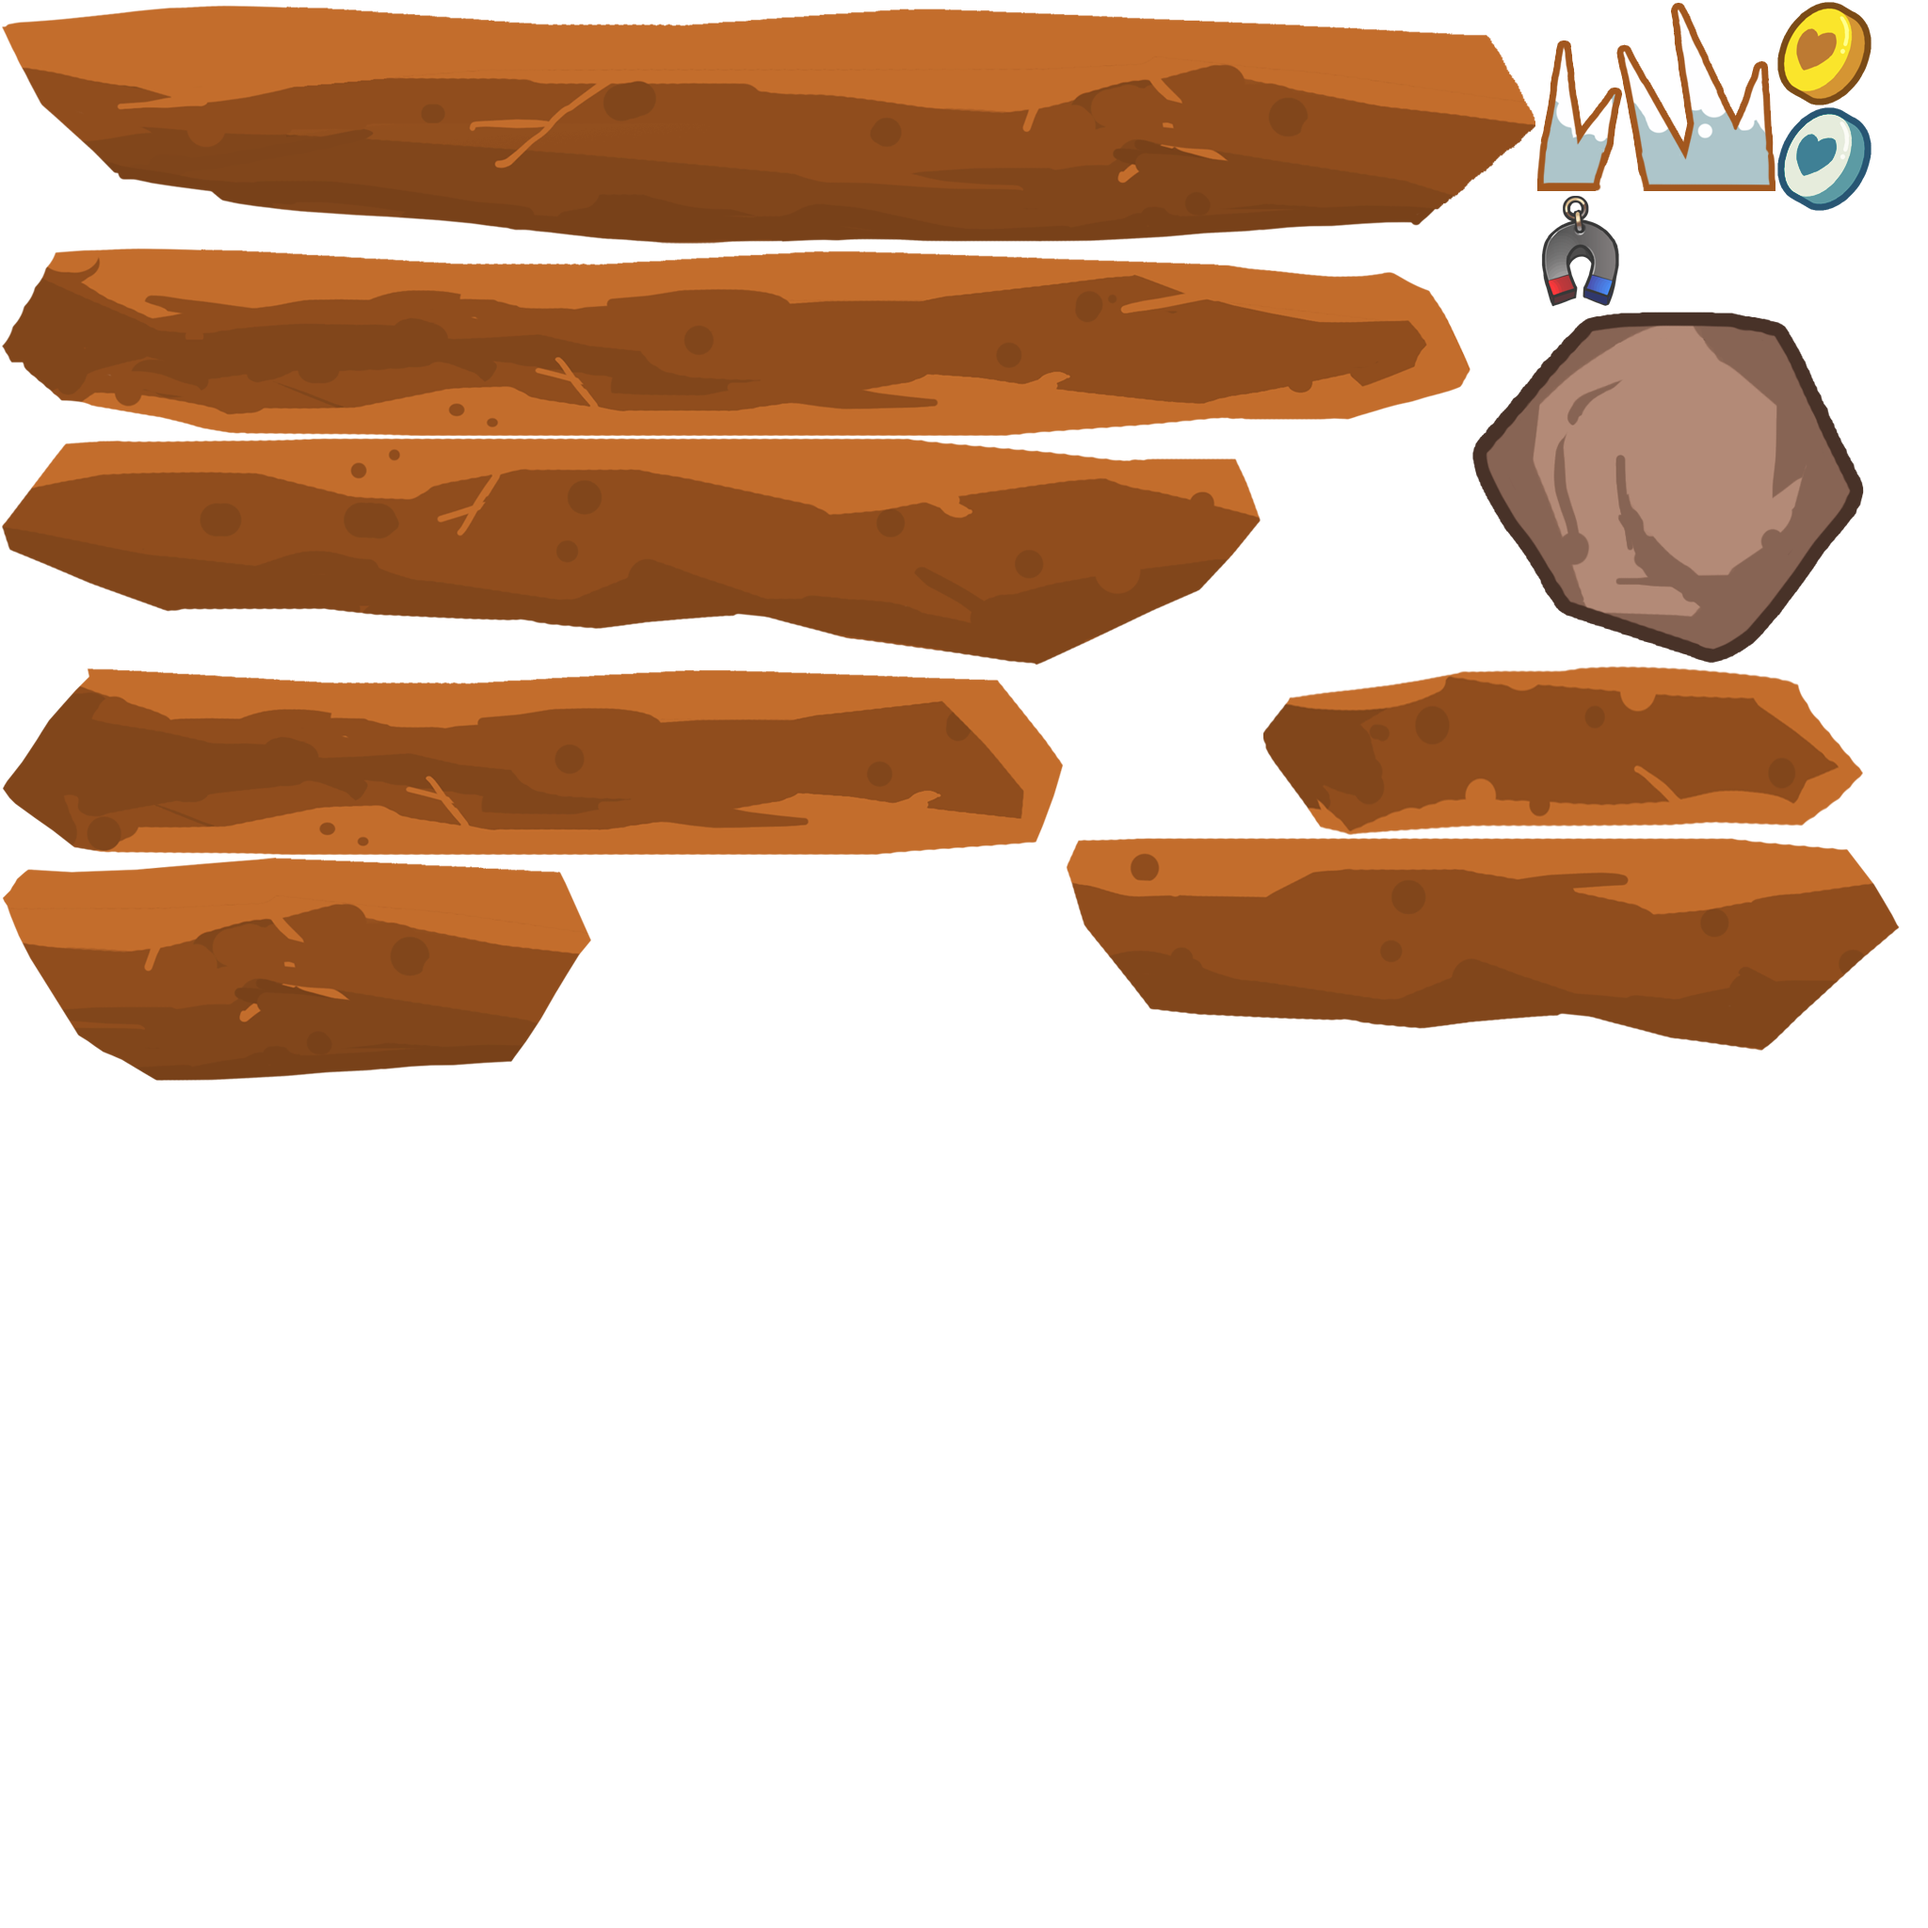
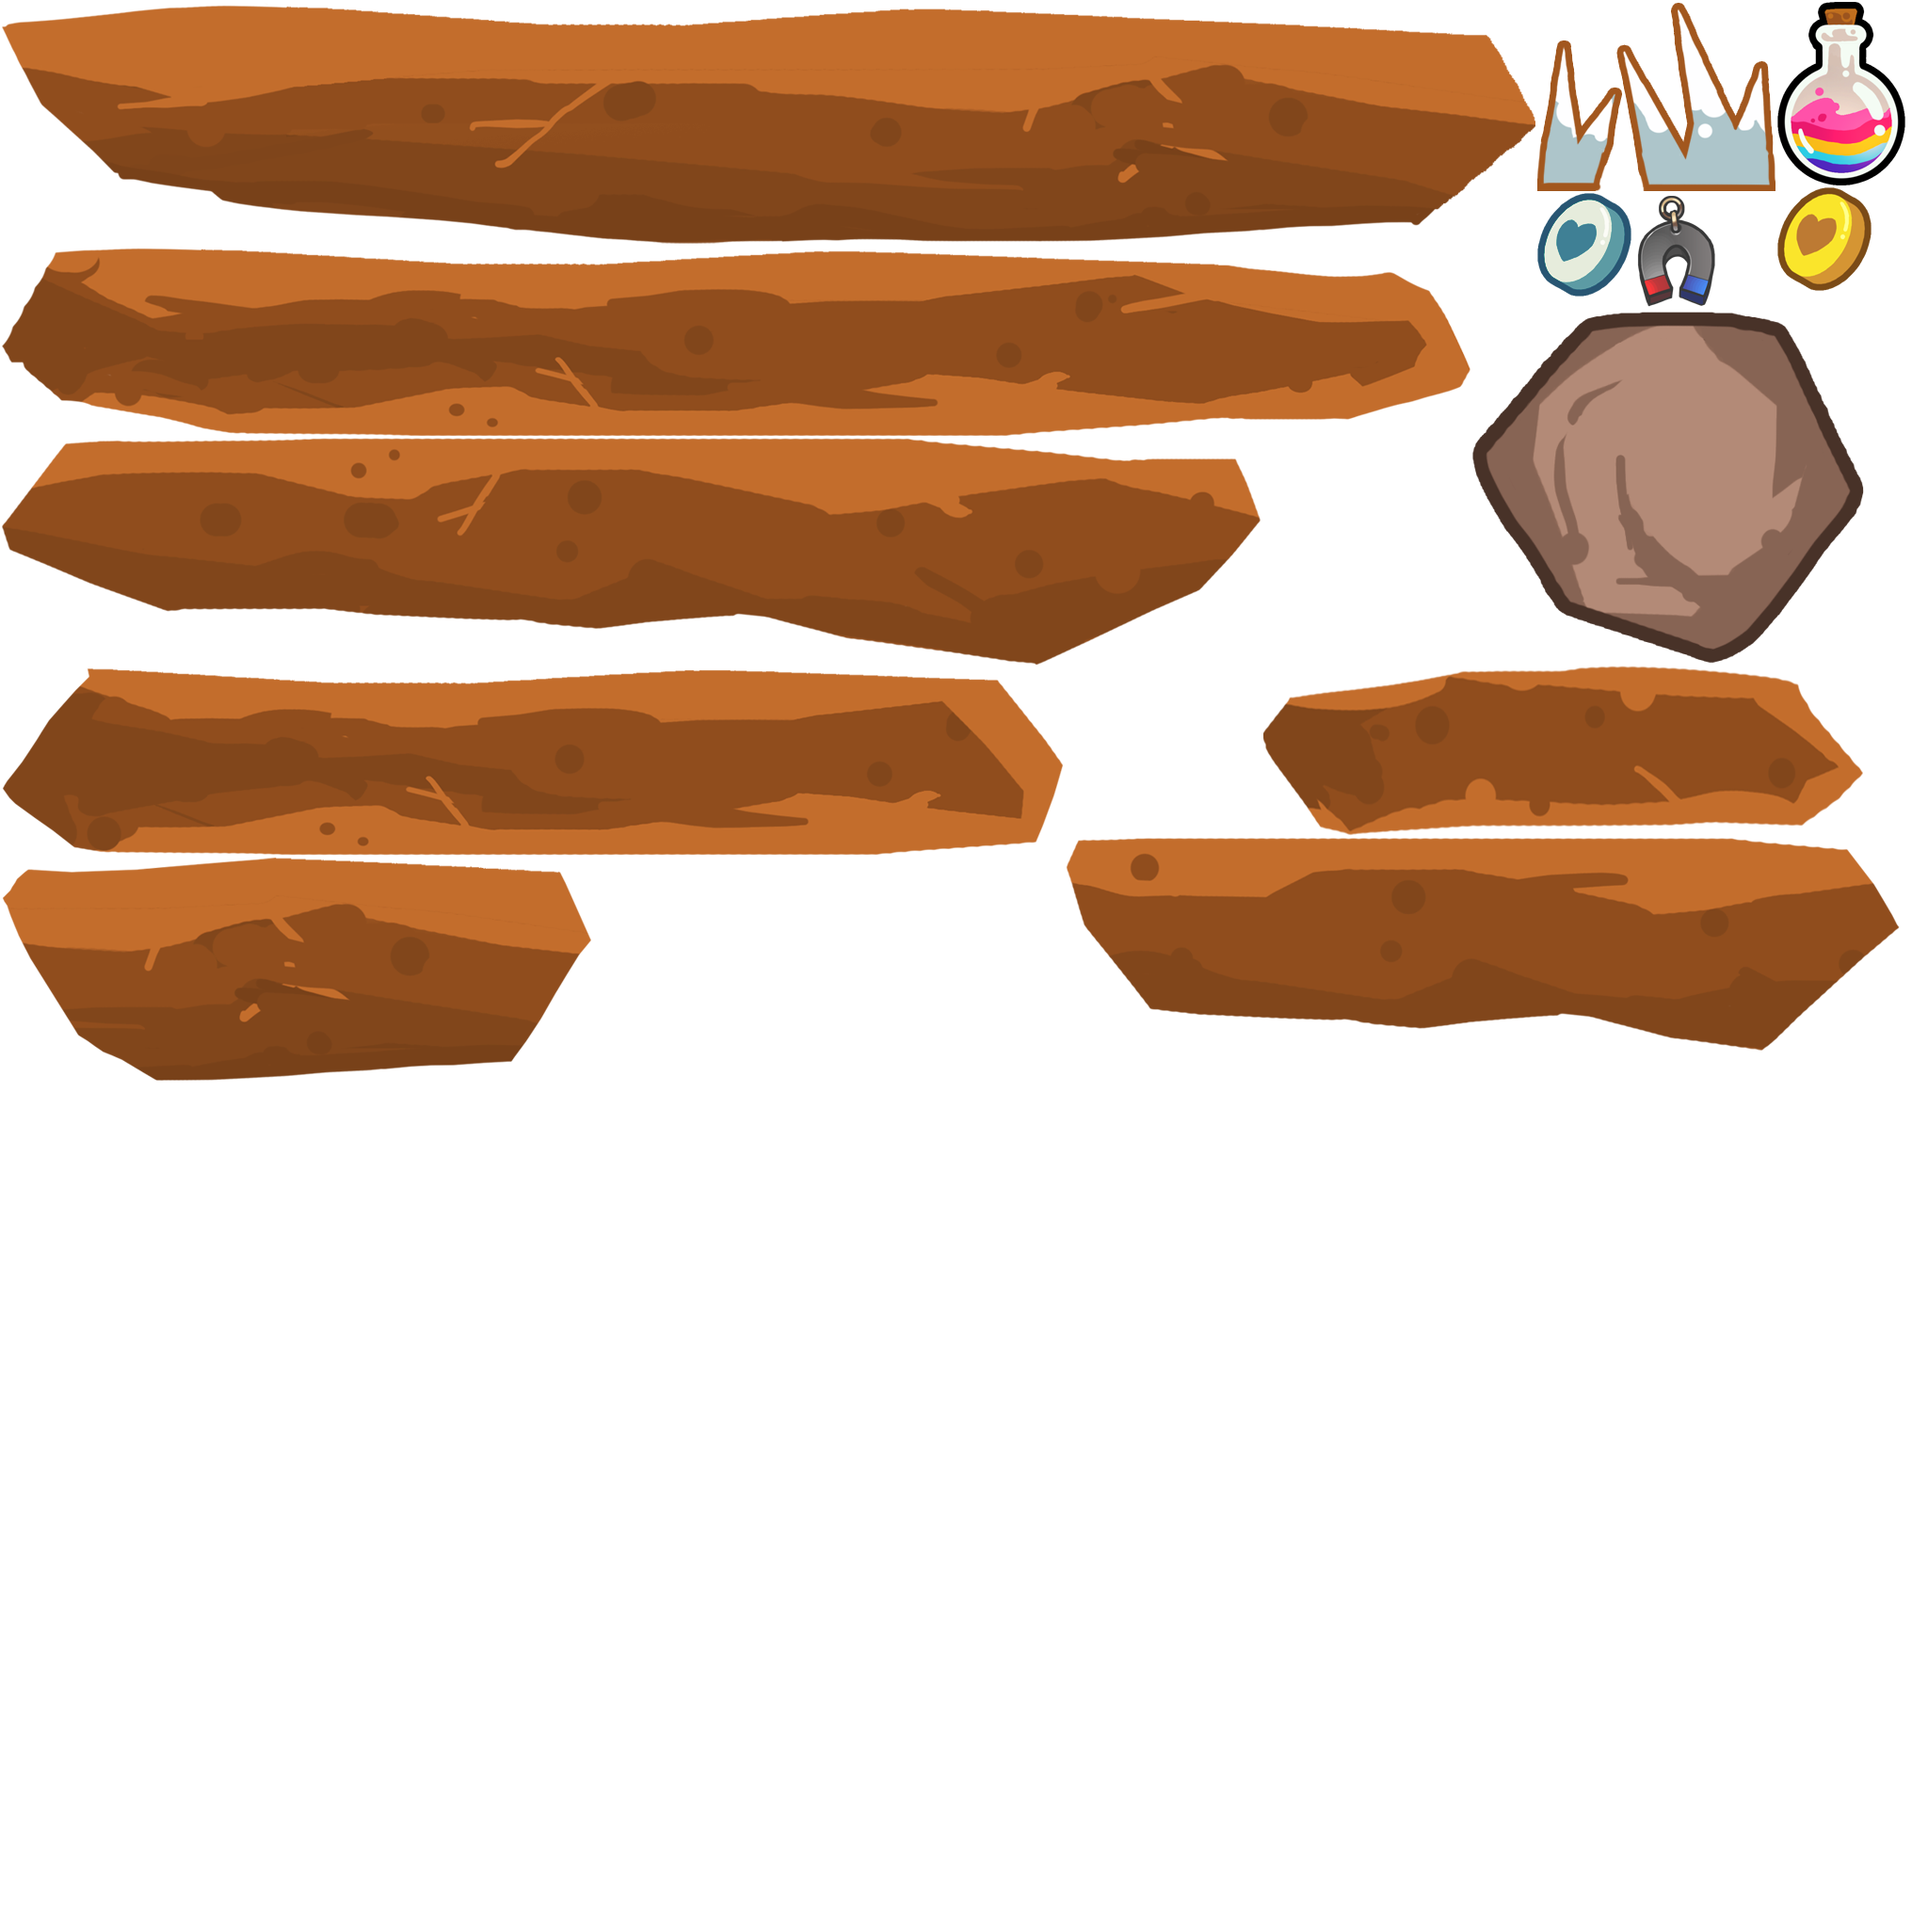
增加无敌道具，修正无敌安全platform生产位置，无敌时忽略一些碰撞

Changed region(s): [[0.7812, 0.0, 1.0, 0.1562]]

diff --git a/LibSouSouSou/GameSouSouSouLevel.mm b/LibSouSouSou/GameSouSouSouLevel.mm
@@ -56,7 +56,7 @@ int reset_count = 0;
 
     m_god_safe_insert_pos_begin = m_cur_god_safe_insert_pos = -god_safe_width*3;
     m_god_safe_insert_pos = god_safe_width*5 + m_cur_god_safe_insert_pos;//m_god_safe_insert_pos必须是god_safe_width的整数倍
-    m_sector_attached = 
+    m_sector_attached = 0;
     m_move_speed = get_global_config().level_move_speed;
     m_moved_pos = 0;
     m_current_sector_width = 0;
@@ -218,7 +218,9 @@ int reset_count = 0;
     
     [self set_acting_range:rc_act];
     
-    
+    /*
+     添加物体阶段
+     */
 	if ( super.m_next_trigger < m_level_triggers.size() )
 	{
 		for ( int i = super.m_next_trigger; i < m_level_triggers.size(); ++i )
@@ -234,6 +236,33 @@ int reset_count = 0;
 			}
 		}
 	}
+    
+    while ( [get_player(-1) is_god] && m_cur_god_safe_insert_pos < m_god_safe_insert_pos )
+    {
+        //        NSLog(@"add god safe %f %f", m_total_moved, m_god_safe_insert_pos-1024 );
+        
+        Platform* safe_platform = nil;
+        safe_platform = [Platform new] ;
+        [ safe_platform init_default_values];
+        [ safe_platform init_with_xml:@"sprites/base.xml:earth_4"];
+        [ safe_platform set_physic_position:0 :ccp(m_cur_god_safe_insert_pos ,0)];
+        [ safe_platform set_zorder:300];
+        [ [GameBase get_game].m_world add_gameobj:safe_platform layer:@"game"];
+        safe_platform = [Platform new] ;
+        [ safe_platform init_default_values];
+        [ safe_platform init_with_xml:@"sprites/base.xml:earth_4"];
+        [ safe_platform set_physic_position:0 :ccp(m_cur_god_safe_insert_pos ,768)];
+        [ safe_platform set_zorder:300];
+        [ safe_platform set_physic_rotation:0 :180];
+        [ [GameBase get_game].m_world add_gameobj:safe_platform layer:@"game"];
+        //NSLog(@"new safe insert pos\t\t%0.2f\t\t%.02f", m_cur_god_safe_insert_pos, m_total_moved );
+        m_cur_god_safe_insert_pos += god_safe_width;
+        
+    }
+    /*
+     添加物体阶段 结束
+     移动场景开始
+     */
     
     m_moved_pos += [self get_move_speed] * delta_time;
     m_total_moved += [self get_move_speed] * delta_time;
@@ -254,29 +283,7 @@ int reset_count = 0;
         m_acting_range_keyframes_.clear();
         m_moved_pos = fix;
     }
-    while ( [get_player(-1) is_god] && m_cur_god_safe_insert_pos < m_god_safe_insert_pos )
-    {
-//        NSLog(@"add god safe %f %f", m_total_moved, m_god_safe_insert_pos-1024 );
-        Platform* safe_platform = nil;
-        safe_platform = [Platform new] ;
-        [safe_platform init_default_values];
-        [ safe_platform init_with_xml:@"sprites/base.xml:earth_4"];
-  //      [ safe_platform set_scale:1 :1];
-        [ safe_platform set_physic_position:0 :ccp(m_cur_god_safe_insert_pos,0)];
-        [safe_platform set_zorder:300];
-        [[GameBase get_game].m_world add_gameobj:safe_platform layer:@"game"];
-        safe_platform = [Platform new] ;
-                [safe_platform init_default_values];     
-        [ safe_platform init_with_xml:@"sprites/base.xml:earth_4"];
-//        [ safe_platform set_scale:1 :1];
-        [ safe_platform set_physic_position:0 :ccp(m_cur_god_safe_insert_pos,768)];
-        [safe_platform set_zorder:300];
-        [safe_platform set_physic_rotation:0 :180];
-        [[GameBase get_game].m_world add_gameobj:safe_platform layer:@"game"];
-       // NSLog(@"new safe insert pos %f", m_cur_god_safe_insert_pos );
-        m_cur_god_safe_insert_pos += god_safe_width;
 
-    }
 }
 
 -(void) append_from_file:(NSString*) filename :(CGPoint) at_pos

diff --git a/LibSouSouSou/Hero.mm b/LibSouSouSou/Hero.mm
@@ -21,11 +21,14 @@ const float invalid_distance = -10000;
 const float hover_distance = 100;
 @implementation Hero
 bool play_dead = false;
+float standard_mass = 0;
+
+
 -(id) init
 {
     
     self = [super init];
-    [self set_god_mode_boost:2 :10];
+   [self set_god_mode_boost:2 :10];
 
     m_hovering = false;
     m_move_distance_when_leave_platform = invalid_distance;
@@ -37,6 +40,7 @@ bool play_dead = false;
     
     m_touched_side = ps_top;
     [self init_with_xml:@"sprites/base.xml:ninja" ];
+    standard_mass = [self get_sprite_component:0].m_phy_body->GetMass();
     /*  soft_ball* b = [[soft_ball alloc] initWithFile:@"blocks.png"];
      [ b init_physics:[GameBase get_game].m_world.m_physics_world :30];
      [b setZOrder:100];
@@ -273,8 +277,13 @@ public:
                 if ( self.m_position.y <= platform_pos.y && m_player_side == ps_can_land_bottom )
                     contact->SetEnabled(false);
             }
+            if ( [platform passable] || [platform kill_touched])
+            {
+                contact->SetEnabled(false);
+            }
         }
     }
+
 }
 
 -(void) on_begin_contact :( struct b2Contact* ) contact
@@ -407,17 +416,21 @@ public:
 
 -(void) set_god_mode:(int) v
 {
-    bool old_is_god = [self is_god ];
+    //bool old_is_god = [self is_god ];
     m_god_mode.base_value = v;
-    if ( old_is_god != [self is_god] )
-    {
-       // if ( [self is_god] )
-       // {
-         //   [self set_scale:2 :2];
-        //}
-        //else
-           // [self set_scale:1 :1];
-    }
+//    if ( old_is_god != [self is_god] )
+//    {
+//        if ( [self is_god] )
+//        {
+//            [ self set_collision_filter:collision_filter_player() cat:cg_god_player];
+//            [self set_scale:2 :2];
+//        }
+//        else
+//        {
+//            [ self set_collision_filter:collision_filter_player() cat:cg_player1];
+//            [self set_scale:1 :1];
+//        }
+//    }
 }
 
 -(void) set_god_mode_boost:(int)v :(float) time
@@ -425,13 +438,6 @@ public:
 
     bool old_is_god = [self is_god ];
     m_god_mode.boost(time, v );
-    //if ( old_is_god != [self is_god] )
-    //{
-      //  if ( [self is_god] )
-        //    [self set_scale:2 :2];
-       // else
-         //   [self set_scale:1 :1];
-    //}
 }
 
 -(void) set_magnet:(float) v
@@ -505,8 +511,11 @@ public:
      else
      [self turn_off_god_mode];
      */
+    float current_mass = [self get_sprite_component:0].m_phy_body->GetMass();
+    
     [ [self get_sprite_component:1] set_physic_position:[self get_physic_position:0]];
-    [ self apply_force_center:0 :m_velocity.x force_y:m_velocity.y ];
+
+    [ self apply_force_center:0 :m_velocity.x* current_mass / standard_mass force_y:m_velocity.y *current_mass / standard_mass];
     
     
     //if ( [self get_physic_position:0].x < 100 )
@@ -532,6 +541,7 @@ public:
         [self set_physic_linear_damping:0 :1];
     }*/
     m_last_touching_passable_platform = touching_passable_platform;
+
     
 }
 

diff --git a/LibSouSouSou/Pickup.mm b/LibSouSouSou/Pickup.mm
@@ -17,13 +17,13 @@
 
 @end
 
-@implementation PickupBoost
+@implementation PickupGodPortion
 
 -(id) init_with_spawn_params:(NSDictionary *)params
 {
     self = [super init_with_spawn_params:params];
-    m_boost_time = read_float_value(params, @"duration", 10.0f );
-    m_boost_value = read_float_value(params, @"value", 400 );
+    m_god_time = read_float_value(params, @"duration", 10.0f );
+    m_boost_value = read_float_value(params, @"speed_boost", 400 );
     return self;
 }
 
@@ -37,10 +37,12 @@
         get_self_fixture( self, collision, self_fix, other_fix );
         if ( [h is_valid_fixture:other_fix] )
         {
-            [h set_speed_boost:m_boost_value :m_boost_time ];
+            [h set_god_mode_boost:1 :m_god_time ];
+            [h set_speed_boost:m_boost_value :m_god_time];
+            [self remove_from_game:true];
         }
     }
-    [self remove_from_game:true];
+
     return 0;
 }
 

diff --git a/LibSouSouSou/PlatformBase.mm b/LibSouSouSou/PlatformBase.mm
@@ -118,6 +118,10 @@ b2RayCastCallback * cb;
     [ self set_batchable:true];
     m_time_before_remove_outof_actrange_ = 0.1;
     m_excellented = false;
+    if ( m_passable || m_kill_touched )
+    {
+        [ self set_collision_filter:cg_player1 | cg_player2 cat:cg_static];
+    }
     return self;
 }
 
@@ -139,7 +143,7 @@ b2RayCastCallback * cb;
 -(int) init_with_xml:(NSString *)filename
 {
     [super init_with_xml:filename];
-    [ self set_collision_filter:cg_player1 | cg_player2 cat:cg_static];
+    [ self set_collision_filter:cg_player1 | cg_player2 | cg_god_player cat:cg_static];
     [ self set_physic_restitution: 0 ];
     [ self set_physic_friction:0 ];
     [self set_batchable:true];

diff --git a/LibSouSouSou/DynamicObject.mm b/LibSouSouSou/DynamicObject.mm
@@ -25,6 +25,8 @@
 -(void) update:(float)delta_time
 {
     [ super update:delta_time ];
+        if ( !m_killed )
+        {
     [ self set_physic_fixed_rotation:0 :false ];
     [ self set_physic_angular_velocity:0 :m_rotat_speed ];
     GameSouSouSouLevel* lvl = (GameSouSouSouLevel*)[GameBase get_game].m_level;
@@ -33,6 +35,7 @@
     if ( self.m_position.x <= 512 )
         move_speed = (level_speed + m_fall_speed)/[ GameBase get_ptm_ratio ];
     [ self set_physic_linear_velocity:0 :-move_speed  :0 ];
+        }
 }
 @end
 

diff --git a/FESimple/Common.mm b/FESimple/Common.mm
@@ -413,7 +413,7 @@ int collision_filter_enemy()
 }
 int collision_filter_player()
 {
-	return (cg_enemy | cg_enemy_bullet | cg_static | cg_acting_range | cg_pickup);
+	return (cg_enemy | cg_enemy_bullet | cg_static | cg_acting_range | cg_pickup );
 }
 int collision_filter_players_pickup()
 {

diff --git a/libs/cocos2d/CCDirector.m b/libs/cocos2d/CCDirector.m
@@ -238,11 +238,6 @@ static CCDirector *_sharedDirector = nil;
 		dt = MAX(0,dt);
 	}
 
-#ifdef DEBUG
-	// If we are debugging our code, prevent big delta time
-	if( dt > 0.2f )
-		dt = 1/60.0f;
-#endif
 
 	lastUpdate_ = now;
 }

diff --git a/LibSouSouSou/Pickup.h b/LibSouSouSou/Pickup.h
@@ -11,10 +11,10 @@
 @interface Pickup : PlatformBase
 @end
 
-@interface PickupBoost : Pickup
+@interface PickupGodPortion : Pickup
 {
     float m_boost_value;
-    float m_boost_time;
+    float m_god_time;
 }
 @end
 

diff --git a/FESimple/CollisionListener.mm b/FESimple/CollisionListener.mm
@@ -96,6 +96,7 @@ void CollisionListener::EndContact(b2Contact* contact)
     {
         m_collisions.erase(pos);
     }
+
 }
 
 void CollisionListener::PreSolve(b2Contact* contact, const b2Manifold* oldManifold)

diff --git a/FESimple/Common.h b/FESimple/Common.h
@@ -57,6 +57,7 @@ enum collison_group_def
 	cg_enemy_bullet=16,
 	cg_acting_range=32,
 	cg_pickup=64,
+    cg_god_player = 128,
 
 };
 
